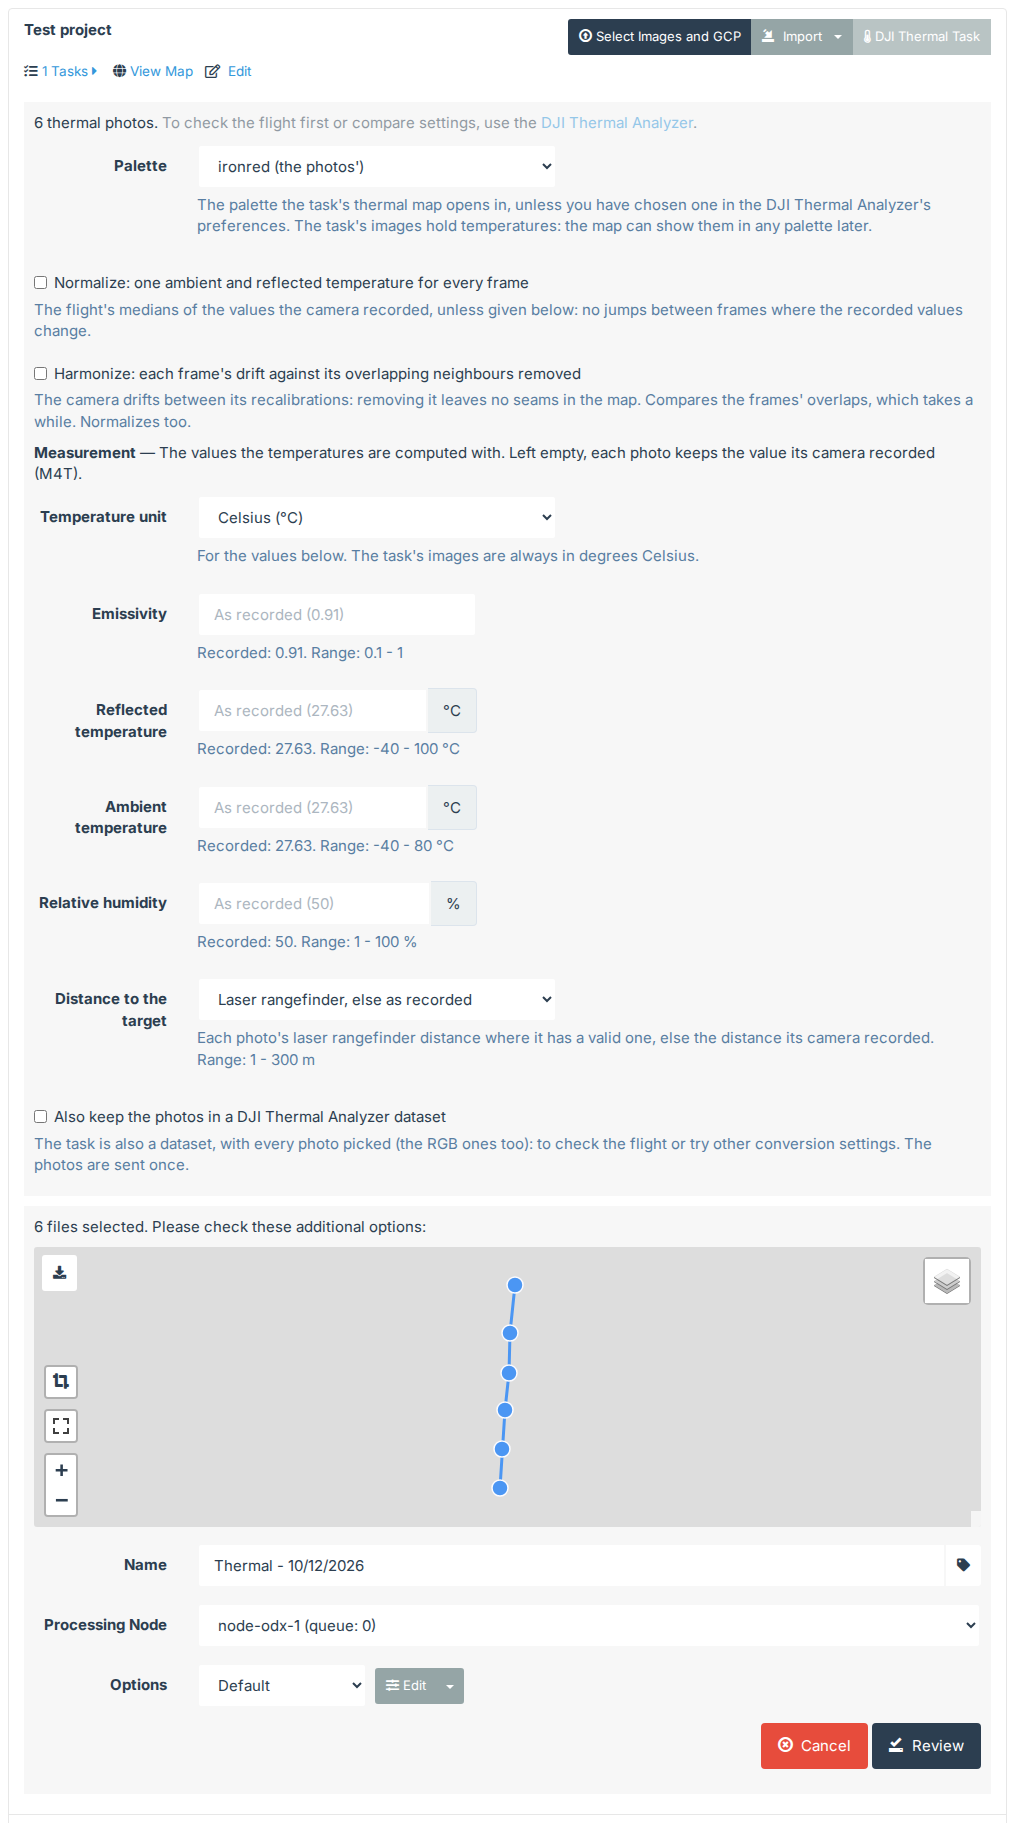
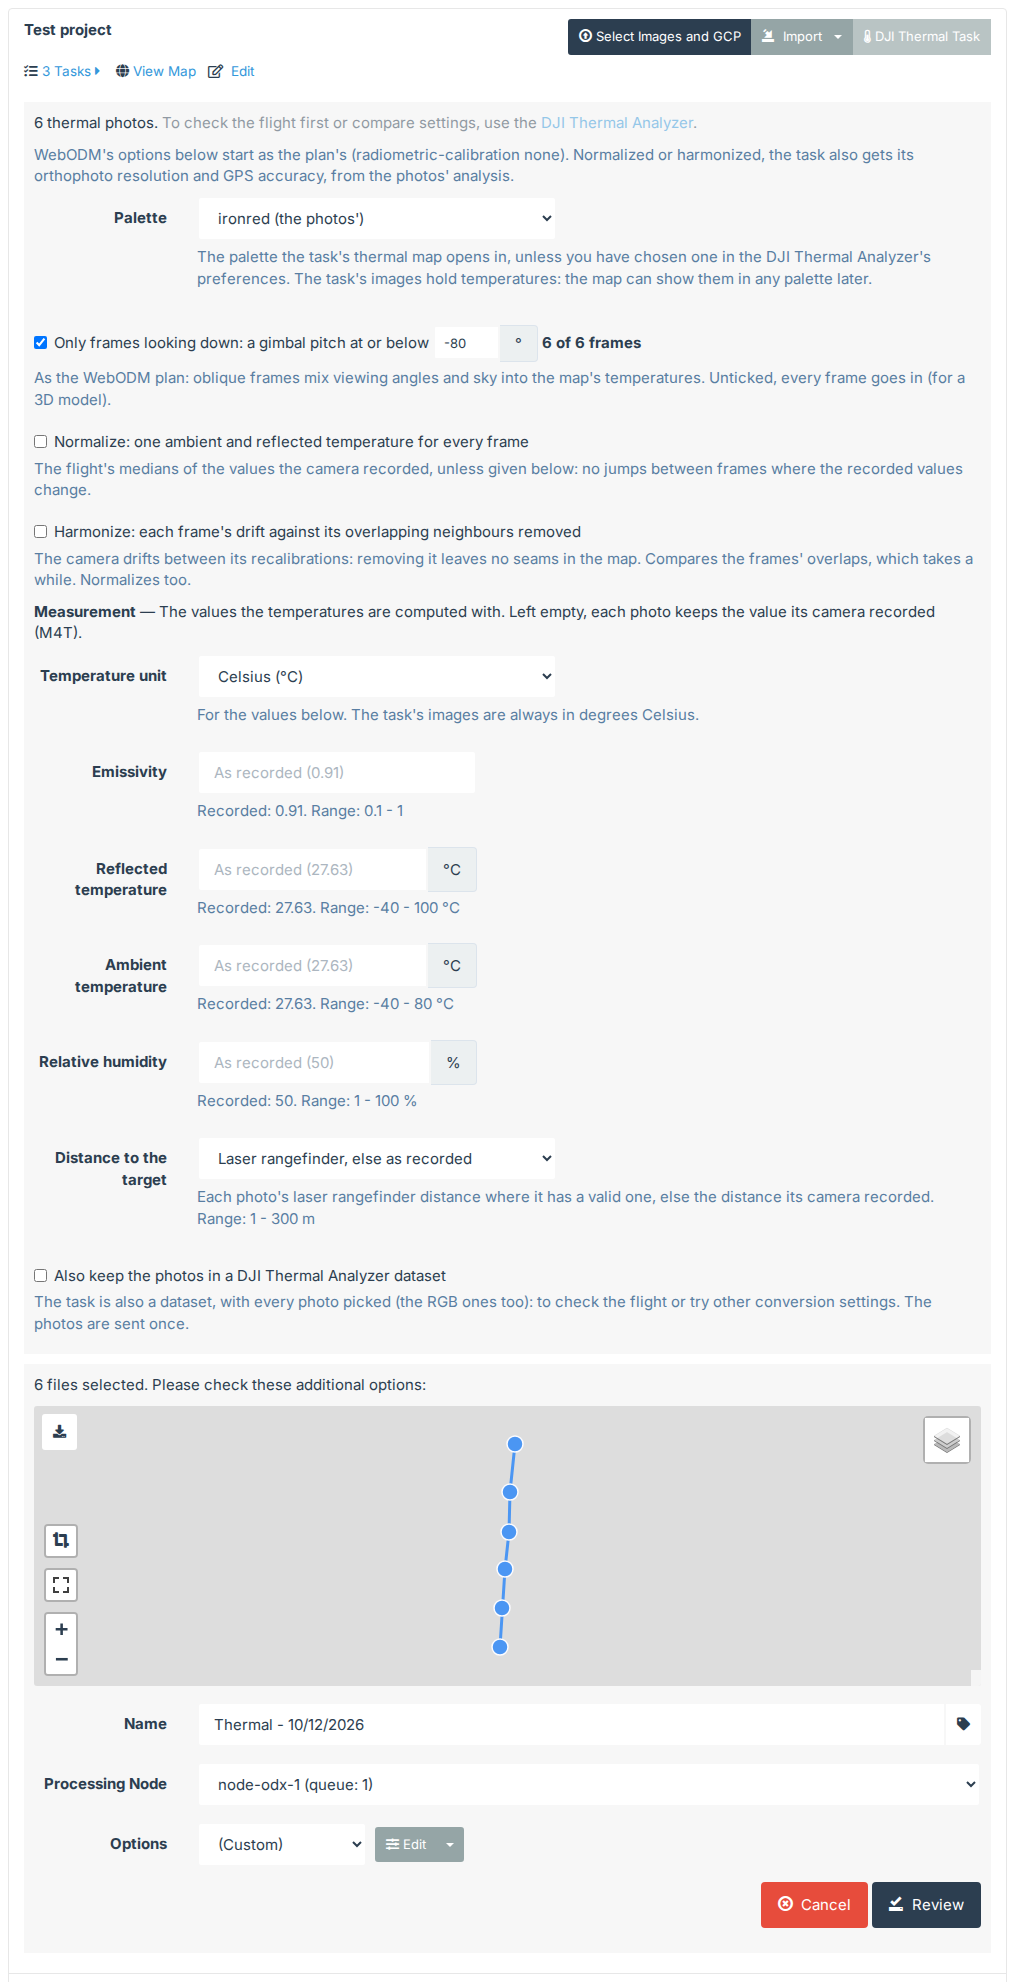
Docs: DJI Thermal Task's pitch limit and its options starting from the plan's

diff --git a/README.md b/README.md
@@ -51,14 +51,21 @@ viewer's base layers are WebODM's own, loaded by your browser as on WebODM's oth
    the one the photos were shot in, unless you've chosen a palette in the Analyzer's preferences; the task's images
    hold temperatures, so the map can show them in any palette later. A task made from a workset opens in the
    workset's palette, if it has one.
-3. **Normalize** and **Harmonize**, under it, off by default: as the workset settings of the same names (see
+3. **Only frames looking down**, under it, ticked by default: as the WebODM plan, only the frames with a gimbal pitch
+   at or below -80° (read from each photo) go into the task, with the count kept beside it ("42 of 217 frames");
+   oblique frames mix viewing angles and sky into the map's temperatures. Untick it to keep every frame (for a 3D
+   model). As is, the others are not converted (but kept in the dataset, if any); normalized, the workset leaves
+   them out.
+   **Normalize** and **Harmonize**, under it, off by default: as the workset settings of the same names (see
    below), one ambient and reflected temperature for every frame, and also each frame's drift removed. Ticked, every
    photo is uploaded first to the task's DJI Thermal Analyzer dataset (**Also keep the photos** is then ticked), a
    workset of it converts them in WebODM's worker, and its TIFFs go into the task, which then starts processing by
    itself. The message under the project, and the task's panel after the page is refreshed (above the panel's
    buttons), show how far the conversion is, then a green **Complete!** once the task has started; the page can be
    closed or refreshed once the upload is done; don't use WebODM's own **Start Processing** meanwhile, which would
-   process the photos unconverted. If putting the images in the task fails, the reason shows with the plugin's own
+   process the photos unconverted. The dataset is analyzed meanwhile, and a task whose options were left as the
+   panel started them gets the WebODM plan's recommended options (its orthophoto resolution and GPS accuracy)
+   before it starts. If putting the images in the task fails, the reason shows with the plugin's own
    **Start processing** to try again. **Also build the workset's mosaics**, off by default, builds
    the Analyzer's mosaics too; they can be built later from the workset's menu. The workset stays in the Analyzer.
 4. **Measurement**: the values the temperatures are computed with. Each field shows the value the camera recorded
@@ -75,8 +82,9 @@ viewer's base layers are WebODM's own, loaded by your browser as on WebODM's oth
    - **Also keep the photos in a DJI Thermal Analyzer dataset**: the task is also a dataset, under its own name,
      that gets every photo picked (the RGB ones too) as they are uploaded, so they are sent once, and is analyzed
      once the task is made. The message under the project then links to it.
-5. Below it, WebODM's own task panel: name, processing node, options and the photos on the map. Images are not
-   resized: the thermal frames keep their size. **Review**, then **Start Processing**.
+5. Below it, WebODM's own task panel: name, processing node, options and the photos on the map. The options start as
+   the WebODM plan's, "(Custom)" with `radiometric-calibration` none (the images already hold temperatures). Images
+   are not resized: the thermal frames keep their size. **Review**, then **Start Processing**.
 6. Each photo is converted as it is uploaded, a few at a time. A photo that fails is left out with its reason;
    the task then processes the others. A GCP file, `geo.txt` and `image_groups.txt` go in with the photos' names
    changed to the converted images' (`DJI_0001_T.JPG` becomes `DJI_0001_T.tif`).

diff --git a/docs/quickstart-thermal-task.md b/docs/quickstart-thermal-task.md
@@ -21,7 +21,13 @@ out the visible (RGB) photos taken with them. You can add a GCP file too.
 The panel shows how many thermal photos it found, then the **Palette**: the DJI palette the task's thermal map
 opens in, starting on the one the photos were shot in. It doesn't change the task's images, which hold temperatures,
 and your own palette, if you've chosen one in the DJI Thermal Analyzer's preferences, comes first; the map can show
-any palette later. Then two settings, off by default:
+any palette later.
+
+**Only frames looking down**, ticked by default, keeps only the frames with a gimbal pitch at or below -80°, as the
+WebODM plan does, and says how many that is ("42 of 217 frames"): oblique frames mix viewing angles and sky into the
+map's temperatures. Untick it to keep every frame, for a 3D model.
+
+Then two settings, off by default:
 
 - **Normalize** measures every frame with one ambient and reflected temperature, the flight's medians of the values
   the camera recorded, so there are no jumps between frames where those values change.
@@ -33,7 +39,8 @@ Both need every photo before any is converted. With either ticked, the photos ar
 [DJI Thermal Analyzer](quickstart-analyzer.md) dataset first (**Also keep the photos**, below, is ticked for you),
 WebODM's worker converts them in a workset of that dataset, and the task starts processing once they're converted.
 The message under the project shows how far the conversion is, with a progress bar, then a green **Complete!** once
-the task has started, and links to the dataset. You can close or refresh the page once the upload is done: the task's
+the task has started, and links to the dataset. The dataset is analyzed meanwhile, for the options (section 3).
+You can close or refresh the page once the upload is done: the task's
 panel (click its name in the project's task list) shows the same progress. Don't press WebODM's own **Start Processing**
 meanwhile: it would process the photos unconverted. **Also build the workset's mosaics**, off
 by default, builds the dataset's mosaics of the converted photos as well; you can build them later from the
@@ -58,7 +65,11 @@ converted images (see section 5).
 ## 3. Start processing
 
 Below the measurement values is WebODM's usual task panel: the task's name, the processing node and the options.
-The thermal frames keep their size; they aren't resized. Press **Review**, then **Start Processing**.
+The options start as the WebODM plan's: **(Custom)**, with `radiometric-calibration` none, as the images already hold
+temperatures. Normalized or harmonized, a task whose options you leave so also gets the plan's orthophoto resolution
+(the frames' ground sample distance) and GPS accuracy (from the RTK positions), from the dataset's analysis, before it
+starts. Pick another preset to use your own. The thermal frames keep their size; they aren't resized. Press
+**Review**, then **Start Processing**.
 
 Each photo is converted into a temperature image as it uploads, a few at a time. If a photo can't be converted,
 it's left out and the panel says why; the task processes the others.

diff --git a/docs/api.md b/docs/api.md
@@ -15,7 +15,7 @@ workset's id (12 hexadecimal characters).
 | --- | --- | --- |
 | POST | `describe` | One thermal photo's camera, recorded measurement values and their ranges, the palette it was shot in (`palette`) and DJI's palettes (`palettes`). Nothing is kept. |
 | POST | `projects/<project>/tasks/<task>/convert` | Converts one photo into a partial task's images, with the measurement values sent with it, and the task's `palette` (one of DJI's, which its thermal map opens in). Answers `converted`, `ignored` (not a DJI thermal photo) or `failed` with the reason. |
-| GET, POST | `projects/<project>/tasks/<task>/workset` | How far the workset converting a partial task's photos is (`status`, `progress`, `stage`, `error`, `photos`, whether the task has its images and started, `committed`, and its `task_error`; a converted workset's TIFFs not yet in the task go in then), 404 for a task without one; converts the photos uploaded to the task's dataset in a new workset (`settings`: the measurement values, `normalize` or `harmonize`, `palette`, and `mosaics`, off unless sent), whose TIFFs then go into the task, which starts processing on the node chosen. |
+| GET, POST | `projects/<project>/tasks/<task>/workset` | How far the workset converting a partial task's photos is (`status`, `progress`, `stage`, `error`, `photos`, whether the task has its images and started, `committed`, and its `task_error`; a converted workset's TIFFs not yet in the task go in then), 404 for a task without one; converts the photos uploaded to the task's dataset in a new workset (`settings`: the measurement values, `normalize` or `harmonize`, `max_pitch`, `palette`, and `mosaics`, off unless sent), whose TIFFs then go into the task, which starts processing on the node chosen. The dataset is analyzed meanwhile; with `plan_options`, the task gets the plan's recommended options once that is done. `frames`: the thermal photos to convert, answered as `photos`. |
 | POST | `projects/<project>/tasks/<task>/workset/start` | Tries again to put the converted workset's TIFFs in a task that is still waiting for them after that failed, and starts it; answers as the GET above. Needs the right to change the project. |
 | POST | `projects/<project>/tasks/<task>/dataset` | The task's DJI Thermal Analyzer dataset, `{id}`: the task itself if it's one, the one it's linked to, or else the task made a dataset, kept in it (201). Needs the right to change the project. |
 
